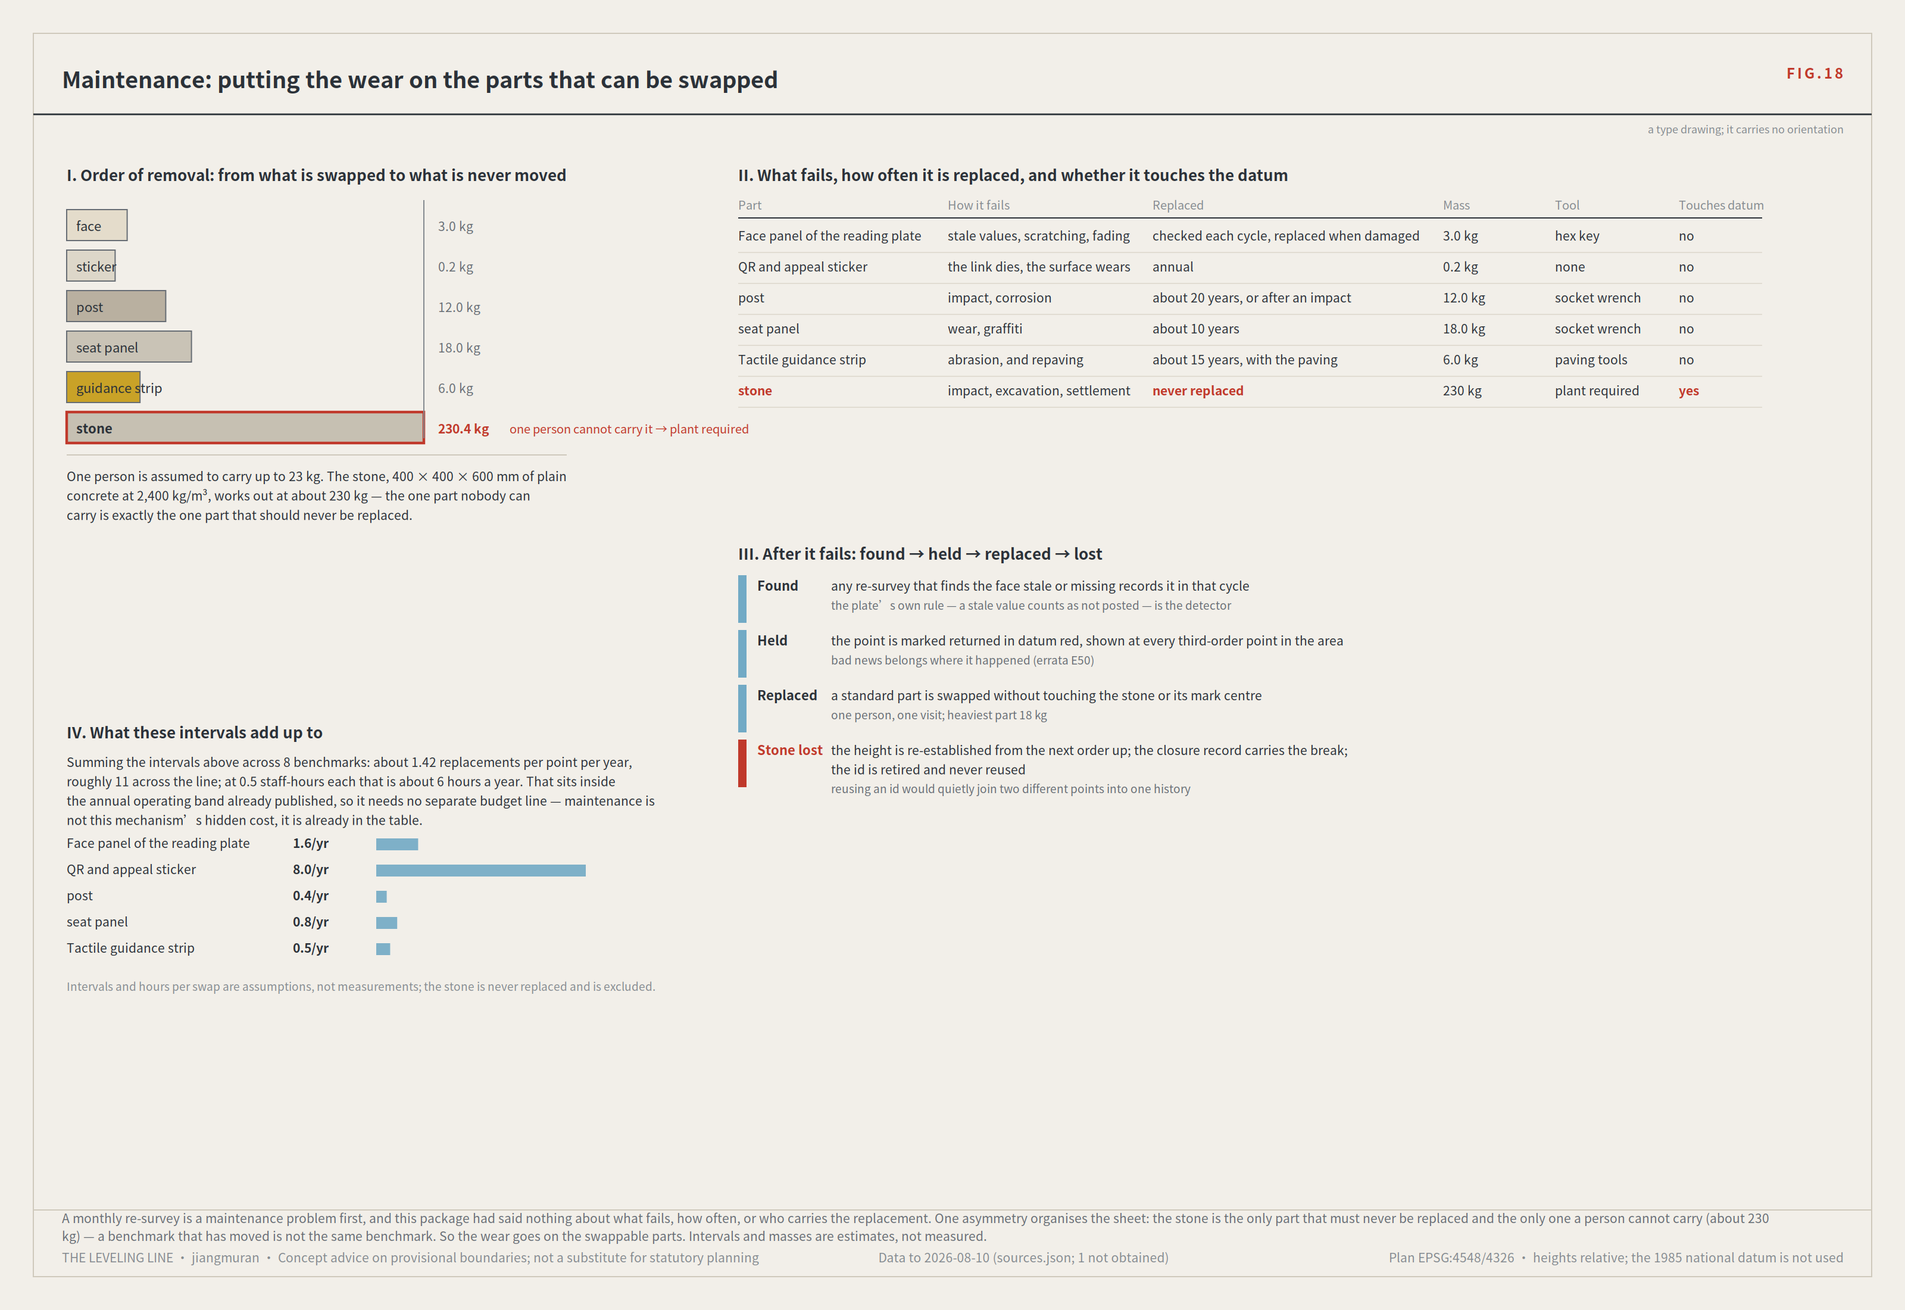
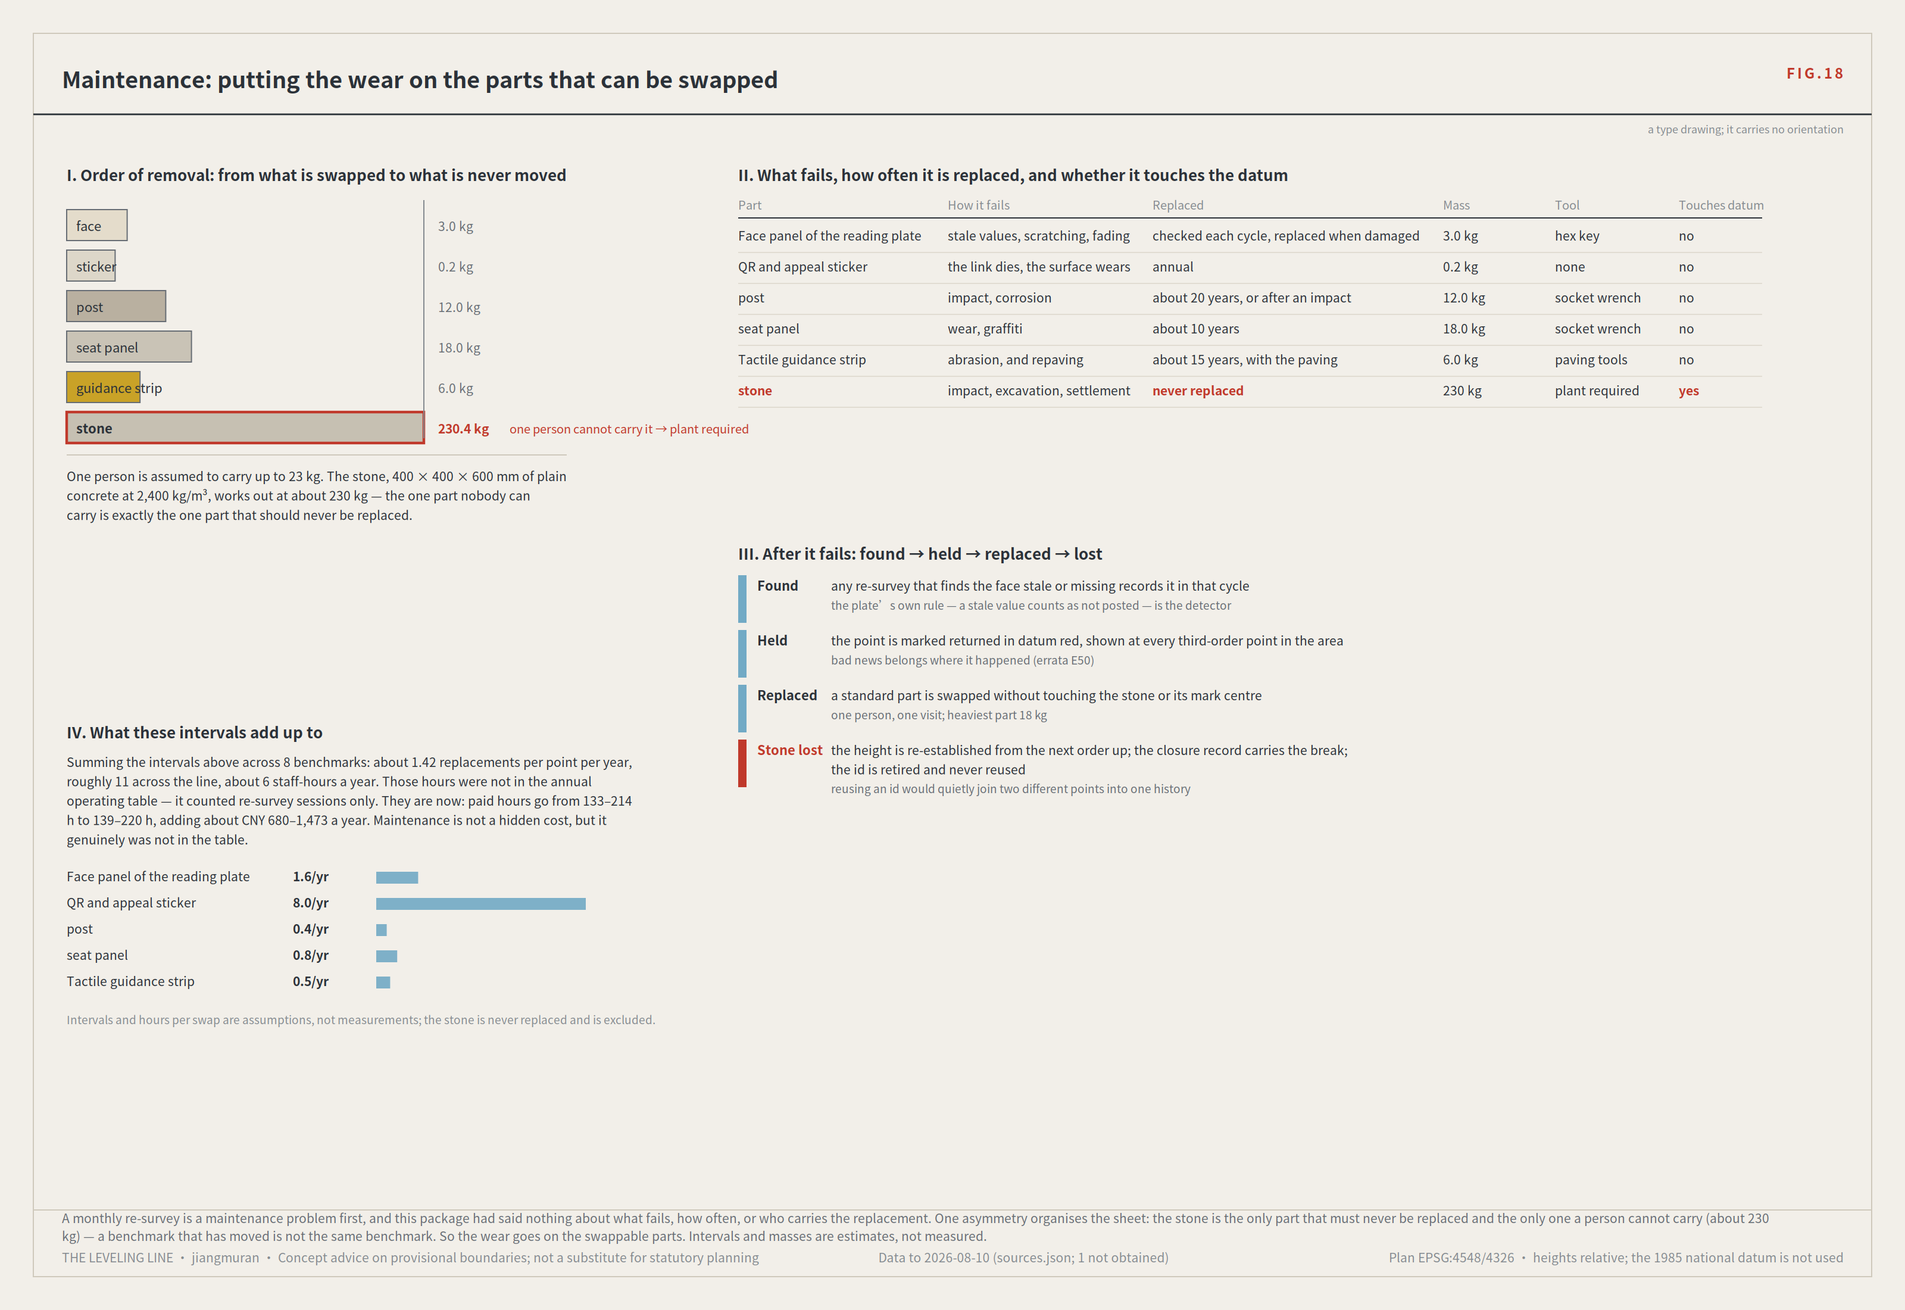
the annual operating table never counted maintenance, and FIG.18 said it did
Cross-checking sheets that compute overlapping quantities — the method that
produced E65 — turned up a claim rather than a number this time.

FIG.18 added up its replacement intervals and concluded: about 11 part
swaps a year, roughly 6 staff-hours, and **"that sits inside the annual
operating band already published, so maintenance is not this mechanism's
hidden cost — it is already in the table."**

It was not in the table. The cost model computes paid hours as sessions ×
people × hours per session: **re-survey only.** The consumables band covers
the parts; nothing covered the labour to fit them. So the sheet that exists
to show maintenance is affordable was pointing at a total that excluded it.

Fixed in the model rather than the sentence, because the sentence was
describing what the table *should* have said. The replacement rates move
into `build_operations`, FIG.18 imports them instead of holding its own
copy, and the annual table now carries survey hours and maintenance hours
separately and adds them:

  paid hours   133–214 h  →  139–220 h
  annual cost  CNY 18,760–62,440  →  CNY 19,444–63,922

And FIG.18 now says what happened instead of what it wished: those hours
were not in the table, they are now, and here is what it moved. **A claim
that maintenance is cheap is worth more when the number it points at
actually contains maintenance.**

BUILD OK, preflight PASS.

Changed region(s): [[0.0312, 0.5873, 0.3438, 0.7727]]

diff --git a/submissions/jiangmuran/jingzhang-leveling-line/report/proposal.en.html b/submissions/jiangmuran/jingzhang-leveling-line/report/proposal.en.html
@@ -593,11 +593,11 @@ code {
 <p>The five standard parts share one specification and open drawings, so any new node anywhere on the line can join in the same language. The construction detail is FIG.16; wear and replacement are FIG.18, where the stone is the only part that must never be replaced and the only one a person cannot carry; the no-drilling construction and setback rule beside heritage fabric are FIG.19; and why the plate carries no lamp is FIG.20.</p>
 <p><strong>One year of running it, costed — all eight benchmarks, row by row.</strong></p>
 <p>Sessions per year are converted from the re-survey cadence each point declares in <code>spatial.json</code>, not typed into this table; hours = sessions × people × the per-session band; money = hours × the rate band plus consumables.</p>
-<div class="proposal-table"><table><thead><tr><th>Benchmark</th><th>Cadence</th><th>Sessions/yr</th><th>Convener</th><th>Paid hours (priced)</th><th>Volunteer hours (unpriced)</th><th>Consumables (CNY/yr)</th><th>Budget line</th></tr></thead><tbody><tr><td>BM-0</td><td>datum</td><td>1</td><td>the implementing body with a licensed surveying unit</td><td>15–24</td><td>—</td><td>600–1500</td><td>municipal facility maintenance — survey and monument upkeep</td></tr><tr><td>BM-1</td><td>first</td><td>1</td><td>the implementing body with a licensed surveying unit</td><td>12–18</td><td>—</td><td>500–1200</td><td>municipal facility maintenance — survey and monument upkeep</td></tr><tr><td>BM-2</td><td>first</td><td>1</td><td>the implementing body with a licensed surveying unit</td><td>12–18</td><td>—</td><td>500–1200</td><td>municipal facility maintenance — survey and monument upkeep</td></tr><tr><td>BM-21</td><td>second</td><td>4</td><td>the park operator</td><td>20–32</td><td>20–32</td><td>300–700</td><td>park operations — scenario open days and tech services</td></tr><tr><td>BM-22</td><td>second</td><td>4</td><td>the park operator</td><td>20–32</td><td>20–32</td><td>300–700</td><td>park operations — scenario open days and tech services</td></tr><tr><td>BM-301</td><td>third</td><td>12</td><td>the sub-district office or residents&#x27; committee</td><td>18–30</td><td>36–60</td><td>200–500</td><td>community governance service procurement — sub-district</td></tr><tr><td>BM-302</td><td>third</td><td>12</td><td>the sub-district office or residents&#x27; committee</td><td>18–30</td><td>36–60</td><td>200–500</td><td>community governance service procurement — sub-district</td></tr><tr><td>BM-303</td><td>third</td><td>12</td><td>the sub-district office or residents&#x27; committee</td><td>18–30</td><td>36–60</td><td>200–500</td><td>community governance service procurement — sub-district</td></tr><tr><td><strong>Total</strong></td><td>—</td><td><strong>47</strong></td><td>—</td><td><strong>133–214</strong></td><td><strong>148–244</strong></td><td><strong>2,800–6,800</strong></td><td>—</td></tr></tbody></table></div>
+<div class="proposal-table"><table><thead><tr><th>Benchmark</th><th>Cadence</th><th>Sessions/yr</th><th>Convener</th><th>Paid hours (priced)</th><th>Volunteer hours (unpriced)</th><th>Consumables (CNY/yr)</th><th>Budget line</th></tr></thead><tbody><tr><td>BM-0</td><td>datum</td><td>1</td><td>the implementing body with a licensed surveying unit</td><td>15–24</td><td>—</td><td>600–1500</td><td>municipal facility maintenance — survey and monument upkeep</td></tr><tr><td>BM-1</td><td>first</td><td>1</td><td>the implementing body with a licensed surveying unit</td><td>12–18</td><td>—</td><td>500–1200</td><td>municipal facility maintenance — survey and monument upkeep</td></tr><tr><td>BM-2</td><td>first</td><td>1</td><td>the implementing body with a licensed surveying unit</td><td>12–18</td><td>—</td><td>500–1200</td><td>municipal facility maintenance — survey and monument upkeep</td></tr><tr><td>BM-21</td><td>second</td><td>4</td><td>the park operator</td><td>20–32</td><td>20–32</td><td>300–700</td><td>park operations — scenario open days and tech services</td></tr><tr><td>BM-22</td><td>second</td><td>4</td><td>the park operator</td><td>20–32</td><td>20–32</td><td>300–700</td><td>park operations — scenario open days and tech services</td></tr><tr><td>BM-301</td><td>third</td><td>12</td><td>the sub-district office or residents&#x27; committee</td><td>18–30</td><td>36–60</td><td>200–500</td><td>community governance service procurement — sub-district</td></tr><tr><td>BM-302</td><td>third</td><td>12</td><td>the sub-district office or residents&#x27; committee</td><td>18–30</td><td>36–60</td><td>200–500</td><td>community governance service procurement — sub-district</td></tr><tr><td>BM-303</td><td>third</td><td>12</td><td>the sub-district office or residents&#x27; committee</td><td>18–30</td><td>36–60</td><td>200–500</td><td>community governance service procurement — sub-district</td></tr><tr><td><strong>Total</strong></td><td>—</td><td><strong>47</strong></td><td>—</td><td><strong>139–220</strong></td><td><strong>148–244</strong></td><td><strong>2,800–6,800</strong></td><td>—</td></tr></tbody></table></div>
 <p>The table above prices the network <strong>as laid out</strong>. FIG.21 measures the worst walk on the line at 1,111 m — 30.9 minutes for P5 — and finds six of nine segments failing this proposal&#x27;s own fifteen-minute rule; closing it needs nine more third-order points. <strong>That is not the same table</strong>: a compliant network costs the following again, on the same model. Letting the as-laid-out figure stand in for the compliant one is the substitution this package would flag in someone else&#x27;s.</p>
 <div class="proposal-table"><table><thead><tr><th>To close the gap</th><th></th></tr></thead><tbody><tr><td>More third-order points</td><td>9</td></tr><tr><td>More re-surveys a year</td><td>108</td></tr><tr><td>More paid hours</td><td>162–270</td></tr><tr><td>More annual cost</td><td>CNY 21,240–74,700</td></tr></tbody></table></div>
 <p><strong>Volunteer hours are counted and not priced.</strong> Pricing them would inflate a cost nobody pays; omitting them would pretend they are free. They are the hours this mechanism asks of residents each year, and that is a quantity to see before agreeing to it.</p>
-<p>At CNY 120–260 per hour, paid labour runs CNY 15,960–55,640 a year, or <strong>CNY 18,760–62,440 a year</strong> including consumables — all bands, none of them point estimates.</p>
+<p>At CNY 120–260 per hour, paid labour runs CNY 16,644–57,122 a year, or <strong>CNY 19,444–63,922 a year</strong> including consumables — all bands, none of them point estimates.</p>
 <p><strong>The only number here that is not counted is the rate</strong>: CNY 120–260 per hour is a band with no verifiable source in this package, and it is graded provisional. Every other cell is a count of sessions, people, hours or items. Substitute your own rate and the table recomputes — the formula ships beside it for exactly that reason.</p>
 <p><strong>The removal bond, docked to instruments that already exist.</strong></p>
 <p><strong>No new deposit is created.</strong> The removal obligation is docked to two instruments already in use in construction and municipal works: a performance bond covers the specific obligation to remove on time and restore the site, and third-party liability insurance covers harm caused while the devices stand. Creating a new deposit would mean creating rules for collecting, holding, disputing and releasing it — and this proposal establishes no new body, so it should not propose money only a new body could hold.</p>

diff --git a/submissions/jiangmuran/jingzhang-leveling-line/report/proposal.html b/submissions/jiangmuran/jingzhang-leveling-line/report/proposal.html
@@ -609,11 +609,11 @@ code {
 <p>五类标准件统一规格、开放图纸，使全线任何新增节点都能以一致语言接入。构造详图见 FIG.16；磨损与更换见 FIG.18（标石是唯一不该更换、也唯一一人搬不动的件）；邻近遗址本体时的不钻孔构造与退距规则见 FIG.19；夜间读数不装灯的理由见 FIG.20。</p>
 <p><strong>一年的运营成本与人员：八个水准点逐点列出。</strong></p>
 <p>每行的年次数由 <code>spatial.json</code> 中该点自己声明的复测周期换算，未在此处手写；工时 = 年次数 × 人数 × 每次工时区间；金额 = 工时 × 费率区间 + 耗材区间。</p>
-<div class="proposal-table"><table><thead><tr><th>水准点</th><th>复测周期</th><th>年次数</th><th>召集方</th><th>专业工时（计价）</th><th>志愿工时（不计价）</th><th>耗材（元/年）</th><th>预算科目</th></tr></thead><tbody><tr><td>BM-0</td><td>年度</td><td>1</td><td>项目实施主体 + 具测绘资质单位</td><td>15–24</td><td>—</td><td>600–1500</td><td>市政设施维护——测绘与标石维护</td></tr><tr><td>BM-1</td><td>年度</td><td>1</td><td>项目实施主体 + 具测绘资质单位</td><td>12–18</td><td>—</td><td>500–1200</td><td>市政设施维护——测绘与标石维护</td></tr><tr><td>BM-2</td><td>年度</td><td>1</td><td>项目实施主体 + 具测绘资质单位</td><td>12–18</td><td>—</td><td>500–1200</td><td>市政设施维护——测绘与标石维护</td></tr><tr><td>BM-21</td><td>季度</td><td>4</td><td>园区运营方</td><td>20–32</td><td>20–32</td><td>300–700</td><td>园区运营——场景开放与科技服务</td></tr><tr><td>BM-22</td><td>季度</td><td>4</td><td>园区运营方</td><td>20–32</td><td>20–32</td><td>300–700</td><td>园区运营——场景开放与科技服务</td></tr><tr><td>BM-301</td><td>月度</td><td>12</td><td>属地街道 / 社区居委会</td><td>18–30</td><td>36–60</td><td>200–500</td><td>社区治理服务采购——属地街道</td></tr><tr><td>BM-302</td><td>月度</td><td>12</td><td>属地街道 / 社区居委会</td><td>18–30</td><td>36–60</td><td>200–500</td><td>社区治理服务采购——属地街道</td></tr><tr><td>BM-303</td><td>月度</td><td>12</td><td>属地街道 / 社区居委会</td><td>18–30</td><td>36–60</td><td>200–500</td><td>社区治理服务采购——属地街道</td></tr><tr><td><strong>合计</strong></td><td>—</td><td><strong>47</strong></td><td>—</td><td><strong>133–214</strong></td><td><strong>148–244</strong></td><td><strong>2,800–6,800</strong></td><td>—</td></tr></tbody></table></div>
+<div class="proposal-table"><table><thead><tr><th>水准点</th><th>复测周期</th><th>年次数</th><th>召集方</th><th>专业工时（计价）</th><th>志愿工时（不计价）</th><th>耗材（元/年）</th><th>预算科目</th></tr></thead><tbody><tr><td>BM-0</td><td>年度</td><td>1</td><td>项目实施主体 + 具测绘资质单位</td><td>15–24</td><td>—</td><td>600–1500</td><td>市政设施维护——测绘与标石维护</td></tr><tr><td>BM-1</td><td>年度</td><td>1</td><td>项目实施主体 + 具测绘资质单位</td><td>12–18</td><td>—</td><td>500–1200</td><td>市政设施维护——测绘与标石维护</td></tr><tr><td>BM-2</td><td>年度</td><td>1</td><td>项目实施主体 + 具测绘资质单位</td><td>12–18</td><td>—</td><td>500–1200</td><td>市政设施维护——测绘与标石维护</td></tr><tr><td>BM-21</td><td>季度</td><td>4</td><td>园区运营方</td><td>20–32</td><td>20–32</td><td>300–700</td><td>园区运营——场景开放与科技服务</td></tr><tr><td>BM-22</td><td>季度</td><td>4</td><td>园区运营方</td><td>20–32</td><td>20–32</td><td>300–700</td><td>园区运营——场景开放与科技服务</td></tr><tr><td>BM-301</td><td>月度</td><td>12</td><td>属地街道 / 社区居委会</td><td>18–30</td><td>36–60</td><td>200–500</td><td>社区治理服务采购——属地街道</td></tr><tr><td>BM-302</td><td>月度</td><td>12</td><td>属地街道 / 社区居委会</td><td>18–30</td><td>36–60</td><td>200–500</td><td>社区治理服务采购——属地街道</td></tr><tr><td>BM-303</td><td>月度</td><td>12</td><td>属地街道 / 社区居委会</td><td>18–30</td><td>36–60</td><td>200–500</td><td>社区治理服务采购——属地街道</td></tr><tr><td><strong>合计</strong></td><td>—</td><td><strong>47</strong></td><td>—</td><td><strong>139–220</strong></td><td><strong>148–244</strong></td><td><strong>2,800–6,800</strong></td><td>—</td></tr></tbody></table></div>
 <p>上表为现状布点的年运营成本。FIG.21 量出全线最远处距最近水准点 1,111 m，对 P5 是 30.9 分钟，九个区段中六个不满足本方案自己的十五分钟规则；补齐需新增 9 个三等点。那不是同一张表：补齐后的网络按同一模型另需下列一笔。把现状成本当作合规网络的成本，是本包会在别人包里指出的那种替换。</p>
 <div class="proposal-table"><table><thead><tr><th>补齐所需</th><th>数量</th></tr></thead><tbody><tr><td>新增三等点</td><td>9 个</td></tr><tr><td>新增年复测</td><td>108 次</td></tr><tr><td>新增专业工时</td><td>162–270 h</td></tr><tr><td>新增年运营</td><td>21,240–74,700 元</td></tr></tbody></table></div>
 <p><strong>志愿工时照列，不计价。</strong> 折成钱会让成本看起来更高，且那笔钱没有人支付；不折成钱又不列出来，等于假装它免费。它是这套机制每年向社区索取的小时数——在同意之前，应该先看见它。</p>
-<p>按 120–260 元/工时，专业人工 15,960–55,640 元/年，含耗材合计 <strong>18,760–62,440 元/年</strong>——全部为区间，不是点估计。</p>
+<p>按 120–260 元/工时，专业人工 16,644–57,122 元/年，含耗材合计 <strong>19,444–63,922 元/年</strong>——全部为区间，不是点估计。</p>
 <p><strong>这张表里唯一不是数出来的数，是费率</strong>：120–260 元/工时是一个区间估计，包内没有可核对的费率来源，证据等级 provisional。其余每一格都是次数、人数、小时或件数。把费率换成你自己的口径，整张表重算即可——公式随表公布正是为了这个。</p>
 <p><strong>撤除保证金：挂靠到已有工具，不新设。</strong></p>
 <p><strong>不新设保证金。</strong> 撤除义务挂靠到工程与市政领域已经在用的两件工具：履约保证金约束「按期撤除并恢复场地」这一条履约义务，第三方责任险覆盖设备存续期间对他人造成的损害。新设一项保证金要新设收取、保管、争议与释放的全套规则，而本方案不设立任何新机构——没有机构，就不该有只有新机构才能管的钱。</p>

diff --git a/submissions/jiangmuran/jingzhang-leveling-line/proposal.en.md b/submissions/jiangmuran/jingzhang-leveling-line/proposal.en.md
@@ -1182,7 +1182,7 @@ Sessions per year are converted from the re-survey cadence each point declares i
 | BM-301 | third | 12 | the sub-district office or residents' committee | 18–30 | 36–60 | 200–500 | community governance service procurement — sub-district |
 | BM-302 | third | 12 | the sub-district office or residents' committee | 18–30 | 36–60 | 200–500 | community governance service procurement — sub-district |
 | BM-303 | third | 12 | the sub-district office or residents' committee | 18–30 | 36–60 | 200–500 | community governance service procurement — sub-district |
-| **Total** | — | **47** | — | **133–214** | **148–244** | **2,800–6,800** | — |
+| **Total** | — | **47** | — | **139–220** | **148–244** | **2,800–6,800** | — |
 
 The table above prices the network **as laid out**. FIG.21 measures the worst walk on the line at 1,111 m — 30.9 minutes for P5 — and finds six of nine segments failing this proposal's own fifteen-minute rule; closing it needs nine more third-order points. **That is not the same table**: a compliant network costs the following again, on the same model. Letting the as-laid-out figure stand in for the compliant one is the substitution this package would flag in someone else's.
 
@@ -1195,7 +1195,7 @@ The table above prices the network **as laid out**. FIG.21 measures the worst wa
 
 **Volunteer hours are counted and not priced.** Pricing them would inflate a cost nobody pays; omitting them would pretend they are free. They are the hours this mechanism asks of residents each year, and that is a quantity to see before agreeing to it.
 
-At CNY 120–260 per hour, paid labour runs CNY 15,960–55,640 a year, or **CNY 18,760–62,440 a year** including consumables — all bands, none of them point estimates.
+At CNY 120–260 per hour, paid labour runs CNY 16,644–57,122 a year, or **CNY 19,444–63,922 a year** including consumables — all bands, none of them point estimates.
 
 **The only number here that is not counted is the rate**: CNY 120–260 per hour is a band with no verifiable source in this package, and it is graded provisional. Every other cell is a count of sessions, people, hours or items. Substitute your own rate and the table recomputes — the formula ships beside it for exactly that reason.
 
